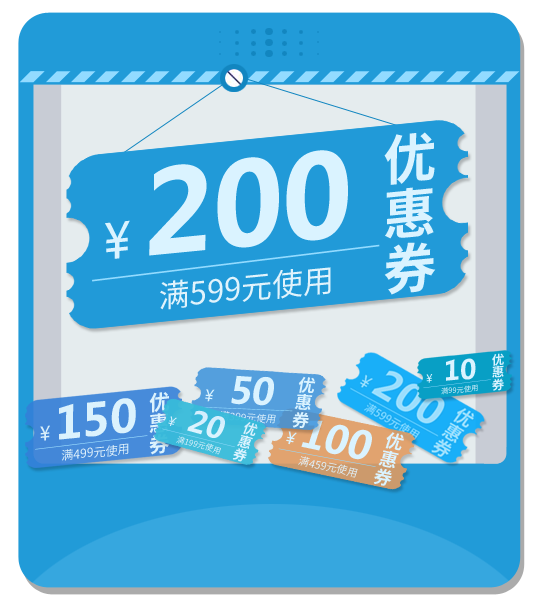
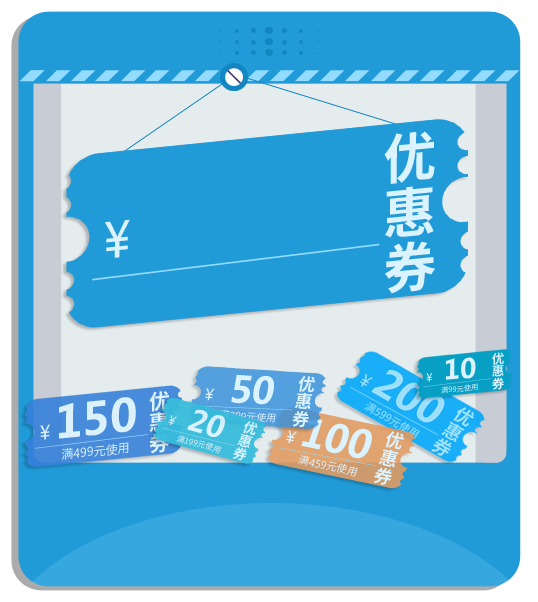
add

diff --git a/web-coupon/coupon.html b/web-coupon/coupon.html
@@ -32,13 +32,20 @@
     .main input{ outline: none; display: block; margin: 1rem auto; width: 18.8rem; height: 3rem; line-height: 3rem; border: 1px solid rgba(4,127,188,1); text-align: center; background: #fff; border-radius: 2rem; font-size: 1rem}
     .main button { outline: none; border: 0; margin: 0 auto; display: block; width: 19rem; height: 3.2rem; background: url(./images/button-1.png); background-size: 100% auto; margin-bottom: 3rem; }
     .main button.on {background-image: url(./images/button-2.png);}
+    .coupon{position: relative; width: 20rem; margin: 0 auto;}
+    .money{position: absolute; color: rgba(255, 255, 255, .7); font-weight: bold; font-size: 3rem; width: 100%; left: 0; top: 6rem; text-align: center; transform: rotate(-7deg); padding-right: 2rem; box-sizing: border-box;}
+    .rules{position: absolute; color: rgba(255, 255, 255, .9); font-size: 1.2rem; width: 100%; left: 0; top: 10rem; text-align: center; transform: rotate(-7deg); padding-right: 2rem; box-sizing: border-box;}
   </style>
 </head>
 <body>
   <div class="coupon-main">
     <a class="logo" href=""><img src="./images/logo.png" alt=""></a>
     <div class="main">
-      <img src="./images/coupon.png" alt="">
+      <div class="coupon">
+        <span class="money">500</span>
+        <span class="rules">满1000使用</span>
+        <img src="./images/coupon.png" alt="">
+      </div>
       <input id="phone" type="text" placeholder="请输入手机号" />
       <button id="submit"></button>
       <p id="success">您已成功领取，扫描下方二维<br />码进入欧飞商城即可优惠下单</p>
